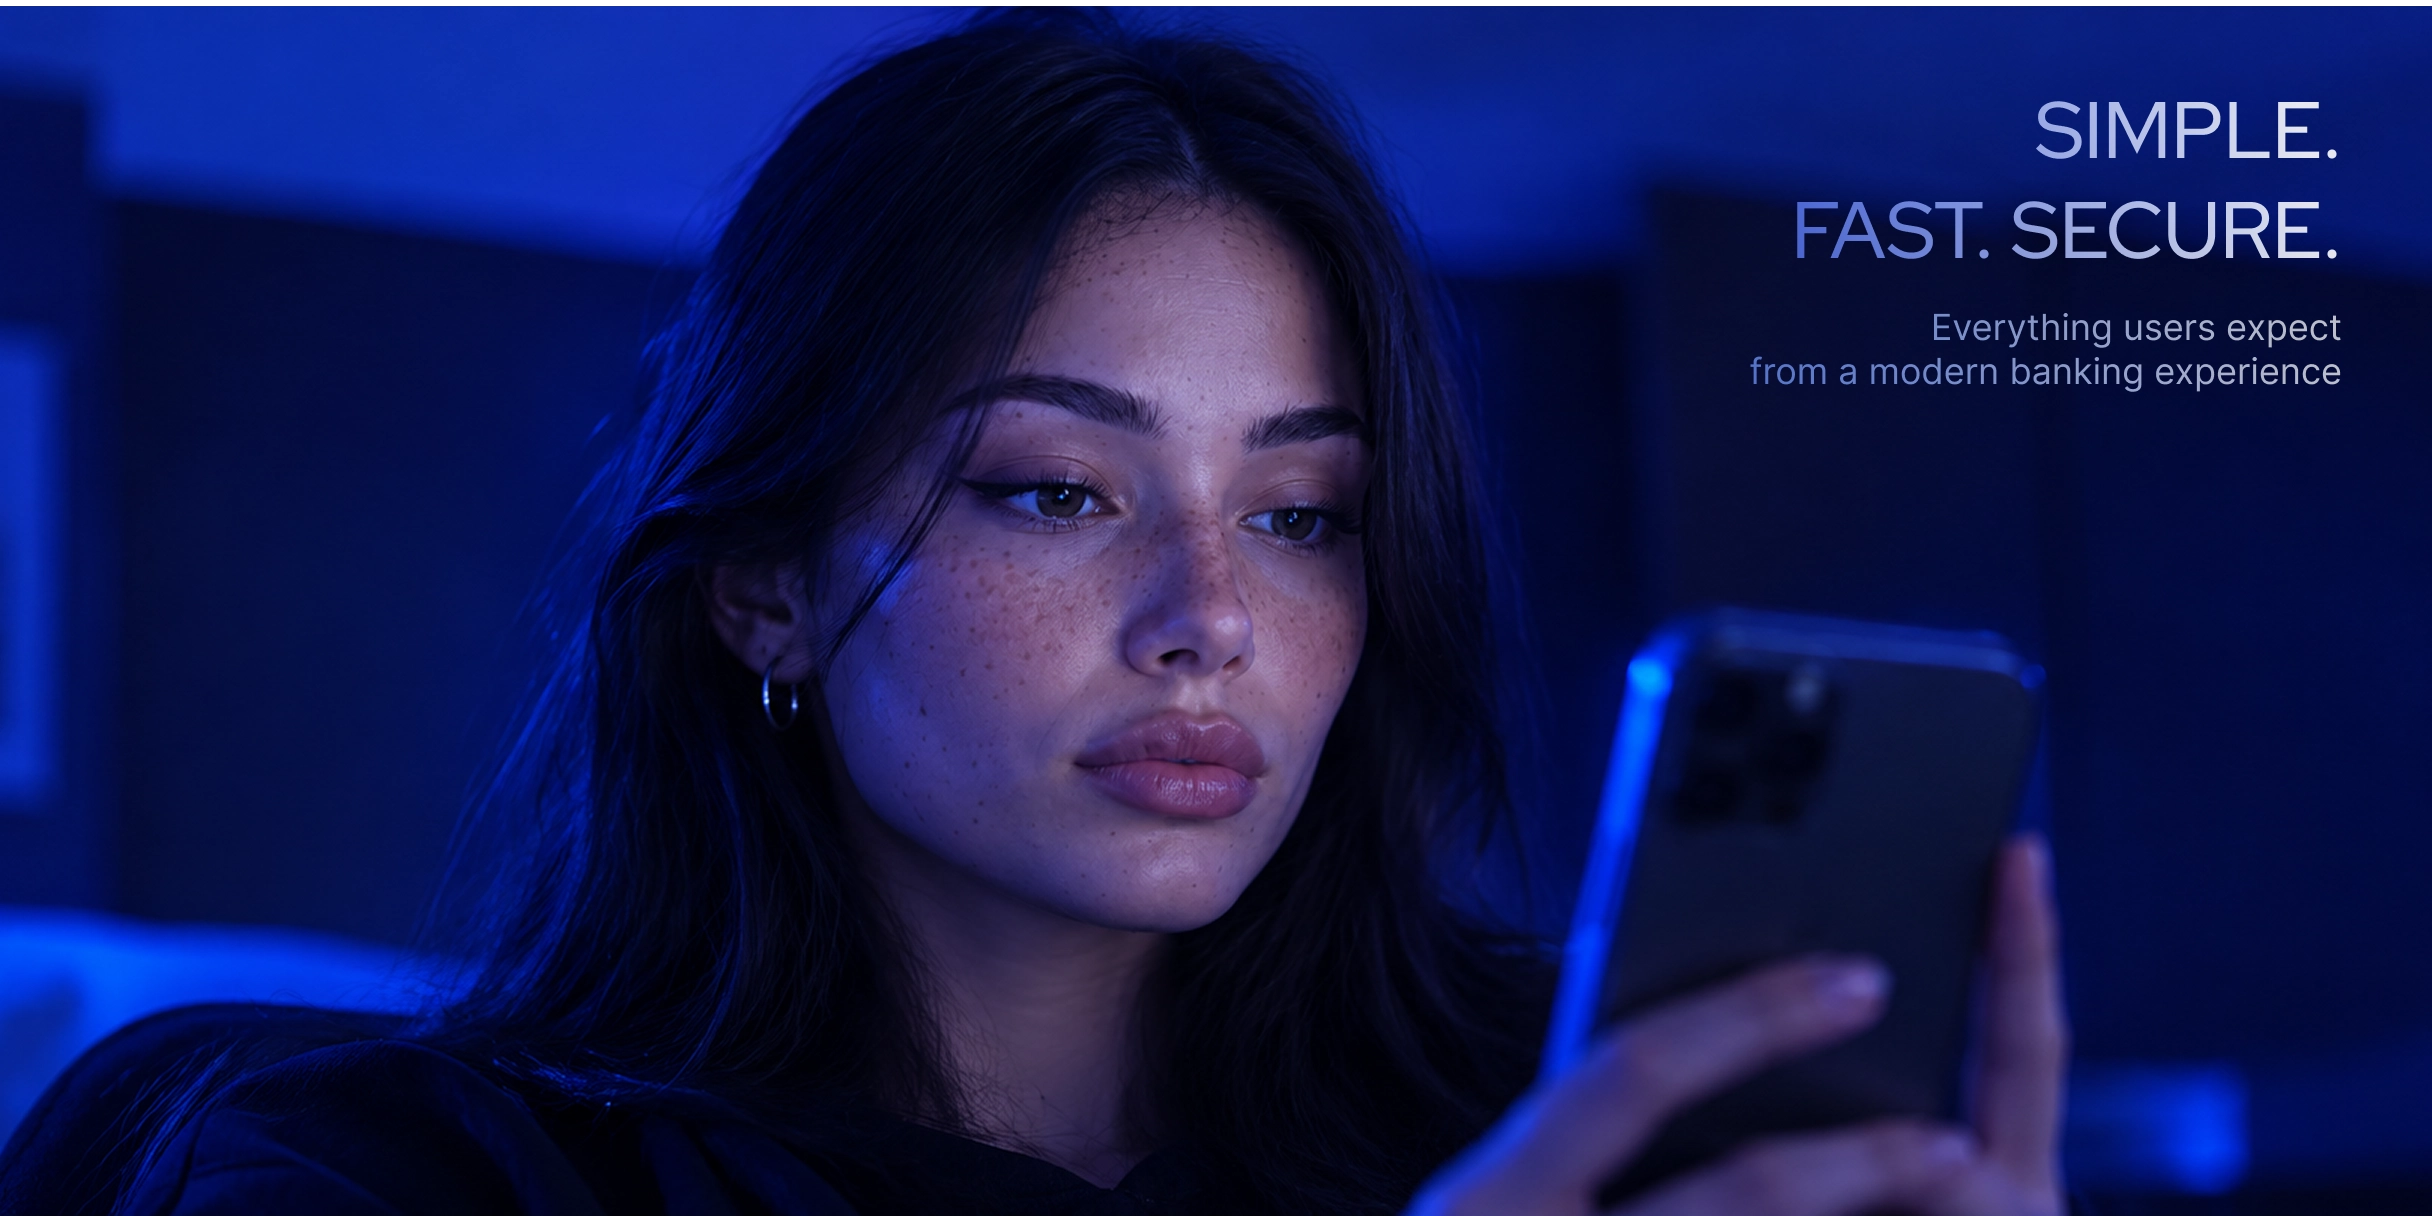
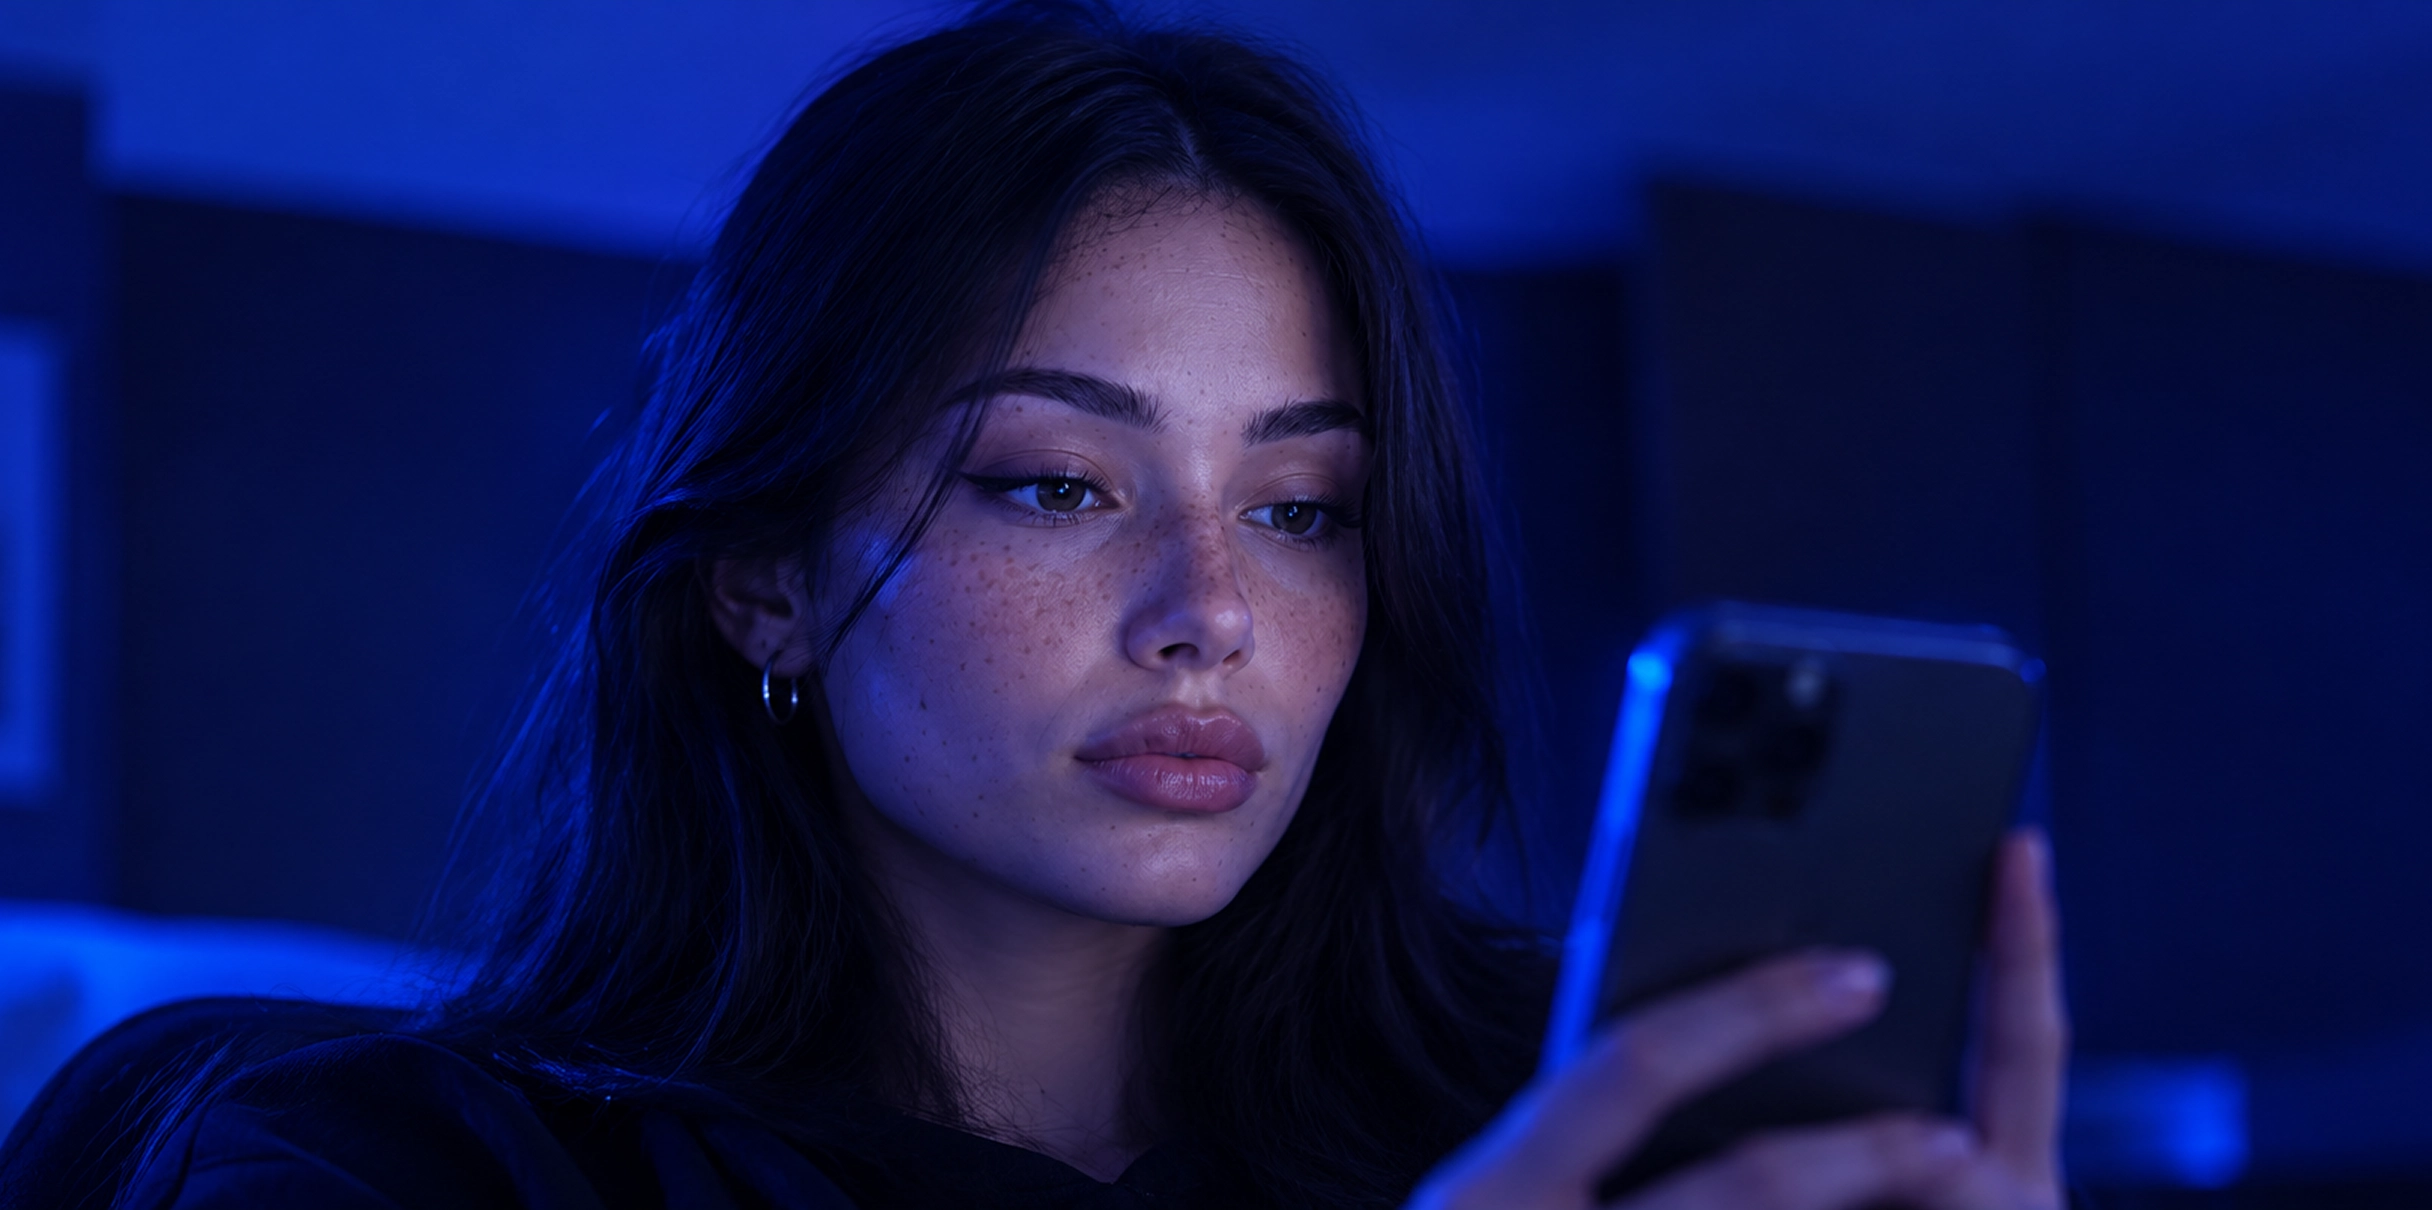
+

diff --git a/src/app/work/kronaBank/page.tsx b/src/app/work/kronaBank/page.tsx
@@ -267,14 +267,16 @@ export default function Page() {
                             </p>
                         </div>
 
-                        <Image
-                            className=""
-                            sizes="100vw"
-                            src={imageTwo}
-                            alt=""
-                            quality={95}
-                            priority
-                        />
+                        <div className="relative h-[400px] w-full overflow-hidden md:h-auto">
+                            <Image
+                                className="h-full w-full object-cover scale-[1.3] md:scale-100 md:object-contain"
+                                sizes="100vw"
+                                src={imageTwo}
+                                alt=""
+                                quality={95}
+                                priority
+                            />
+                        </div>
 
                         <div className="grid grid-cols-1 lg:grid-cols-2 lg:gap-[80px] mt-[60px] md:mt-[80px] xl:mt-[120px]">
                             <div className="flex flex-col">
@@ -419,14 +421,16 @@ export default function Page() {
                                 </div>
                             </div>
                         </div>
-                        <Image
-                            className="mt-[60px] md:mt-[80px] xl:mt-[120px]"
-                            sizes="100vw"
-                            src={imageThree}
-                            alt=""
-                            quality={95}
-                            priority
-                        />
+                        <div className="mt-[60px] md:mt-[80px] xl:mt-[120px] relative h-[400px] w-full overflow-hidden md:h-auto">
+                            <Image
+                                className="h-full w-full object-cover scale-[1.3] md:scale-100 md:object-contain"
+                                sizes="100vw"
+                                src={imageThree}
+                                alt=""
+                                quality={95}
+                                priority
+                            />
+                        </div>
                     </div>
                 </section>
 
@@ -806,16 +810,16 @@ export default function Page() {
                                 </div>
                             </div>
                         </div>
-
-                        {/* Картинка */}
-                        <Image
-                            className=""
-                            sizes="100vw"
-                            src={imageFive}
-                            alt=""
-                            quality={95}
-                            priority
-                        />
+                        <div className="relative h-[400px] w-full overflow-hidden md:h-auto">
+                            <Image
+                                className="h-full w-full object-cover scale-[1.3] md:scale-100 md:object-contain"
+                                sizes="100vw"
+                                src={imageFive}
+                                alt=""
+                                quality={95}
+                                priority
+                            />
+                        </div>
                     </div>
                 </section>
 

diff --git a/src/components/sections/MainSection1.tsx b/src/components/sections/MainSection1.tsx
@@ -13,7 +13,7 @@ export function MainSection1({ title, table, arrow = false }: Props) {
     <section className="container pb-[50px] pt-[160px] lg:pt-[280px] lg:pb-[120px] md:pt-[122px] md:pb-[70px]">
       <div className="mb-[30px] lg:mb-[52px]">
         <div className="flex justify-between">
-          <h1 className="flex font-semibold text-[40px] md:text-[70px] text-[#404040] whitespace-pre-line uppercase xl:max-w-[935px]">
+          <h1 className="flex font-semibold text-[40px] md:text-[70px] text-[#404040] whitespace-pre-line leading-tight uppercase xl:max-w-[935px]">
             {title}
           </h1>
 
